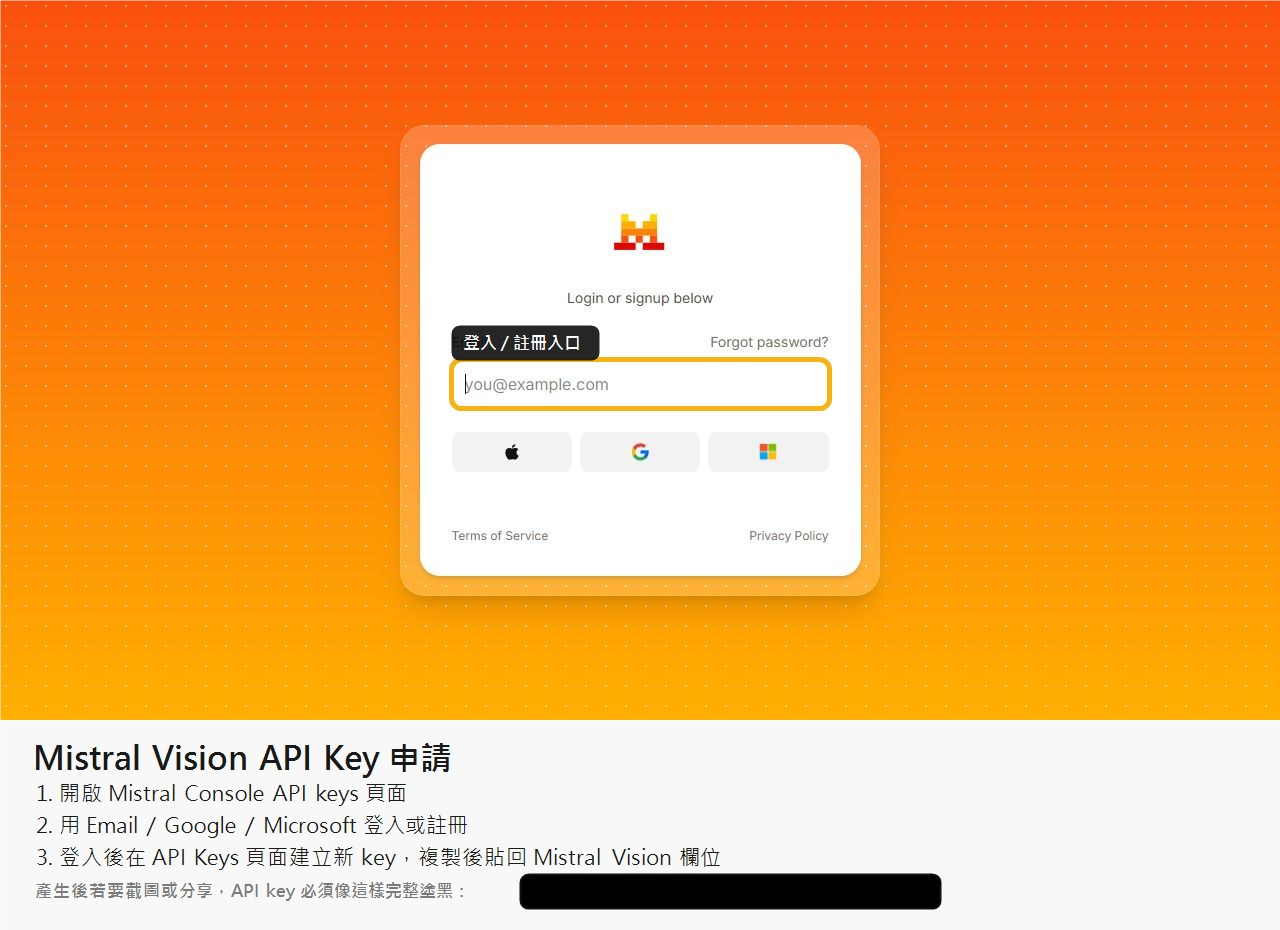
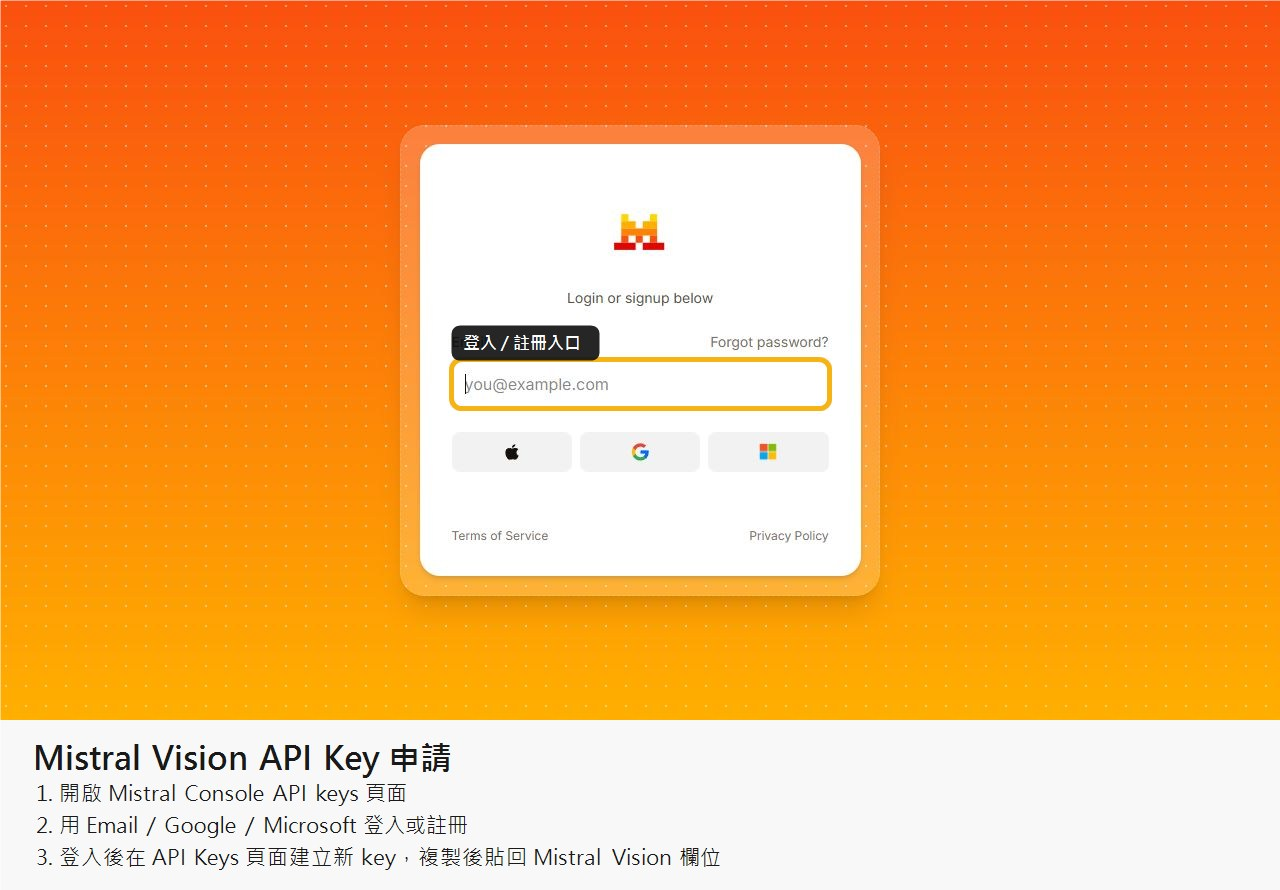
修正 API Key 登入頁教學與遮蔽範例
修改內容：

- 將 API key 黑框從供應商登入頁截圖移除，避免誤認為網站上的實際位置。

- 新增 images/api-key-guide/api-key-redaction-example.jpg 作為獨立遮蔽示意圖。

- 更新 API_KEY_GUIDE.md，明確說明登入頁流程、登入後 API Keys 頁面操作與遮蔽規則。

- 更新 README.md 的 V01.000 版本歷程描述。

diff --git a/API_KEY_GUIDE.md b/API_KEY_GUIDE.md
@@ -1,12 +1,14 @@
 # API Key 申請截圖教學
 
-本教學示範如何進入 Gemini、Mistral Vision 與 Groq Llama4 的 API key 申請頁面。截圖只保留登入/註冊入口與操作位置，不包含真實 API key；圖中的黑條是遮蔽示意，不代表網站上的固定顯示位置。
+本教學示範如何進入 Gemini、Mistral Vision 與 Groq Llama4 的 API key 申請頁面。供應商截圖會先說明登入/註冊頁面與 API Keys 入口；API key 的塗黑方式放在獨立示意圖，不會標在供應商網站畫面上。
 
 安全提醒：
 
 - API key 只會在建立時完整顯示一次，請立即保存到自己的密碼管理工具。
 - 不要把 API key 貼到 GitHub、截圖、聊天紀錄或公開文件。
 - 若截圖中出現 API key，請先用黑框完整塗黑再分享。
+
+![API key 遮蔽範例](images/api-key-guide/api-key-redaction-example.jpg)
 
 ## Gemini API Key
 
@@ -15,9 +17,10 @@
 操作流程：
 
 1. 開啟 Google AI Studio API keys 頁面。
-2. 使用 Google 帳號登入。
-3. 登入後按 `Create API key`。
-4. 複製產生的 key，貼回 ScreenOCRTranslator 的 `Gemini API Key` 欄位。
+2. 在登入頁輸入 Google 帳號，按 `下一步` 完成登入。
+3. 登入後會回到 API keys 頁面。
+4. 在 API keys 頁面按 `Create API key`。
+5. 複製產生的 key，貼回 ScreenOCRTranslator 的 `Gemini API Key` 欄位。
 
 ![Gemini API Key 申請](images/api-key-guide/gemini-api-key.jpg)
 
@@ -28,9 +31,10 @@
 操作流程：
 
 1. 開啟 Mistral Console API keys 頁面。
-2. 使用 Email、Google、Microsoft 或其他支援方式登入/註冊。
-3. 登入後進入 API Keys 頁面並建立新的 API key。
-4. 複製產生的 key，貼回 ScreenOCRTranslator 的 `Mistral Vision API Key` 欄位。
+2. 在登入頁使用 Email、Google、Microsoft 或其他支援方式登入/註冊。
+3. 登入後會回到 API Keys 頁面。
+4. 在 API Keys 頁面建立新的 API key。
+5. 複製產生的 key，貼回 ScreenOCRTranslator 的 `Mistral Vision API Key` 欄位。
 
 ![Mistral Vision API Key 申請](images/api-key-guide/mistral-api-key.jpg)
 
@@ -41,8 +45,9 @@
 操作流程：
 
 1. 開啟 GroqCloud API Keys 頁面。
-2. 使用 Google、GitHub、SSO 或 Email 登入/註冊。
-3. 登入後按 `Create API Key` 建立新的 key。
-4. 複製產生的 key，貼回 ScreenOCRTranslator 的 `Llama 4 API Key` 欄位。
+2. 在登入頁使用 Google、GitHub、SSO 或 Email 登入/註冊。
+3. 若進入其他頁面，可切到上方 `API Keys` 分頁。
+4. 登入後按 `Create API Key` 建立新的 key。
+5. 複製產生的 key，貼回 ScreenOCRTranslator 的 `Llama 4 API Key` 欄位。
 
 ![Groq Llama4 API Key 申請](images/api-key-guide/groq-api-key.jpg)

diff --git a/README.md b/README.md
@@ -34,7 +34,7 @@ OCR 語言資料改為內嵌資源，單檔執行時會自動解壓到 `%LOCALAP
 新增「今日引擎使用量」面板：顯示每個引擎/模型的成功請求、失敗計數、Tokens 用量、上限與 RPM，並每日自動更新。<br>
 配額統計改為「成功請求為主、失敗另列計數」，便於判讀實際消耗。<br>
 更新新版主畫面與 Tokens 用量截圖，並移除 Tokens 面板中的舊 Pixtral 佔位列。<br>
-新增 `API_KEY_GUIDE.md`，提供 Gemini、Mistral Vision、Groq Llama4 的 API key 申請截圖教學與塗黑提醒。<br>
+新增 `API_KEY_GUIDE.md`，提供 Gemini、Mistral Vision、Groq Llama4 的登入頁面、API key 申請截圖教學與獨立塗黑範例。<br>
 
 V0.94b<br>
 1.送出 AI 翻譯請求時，會在滑鼠游標旁顯示「翻譯中...」。<br>
